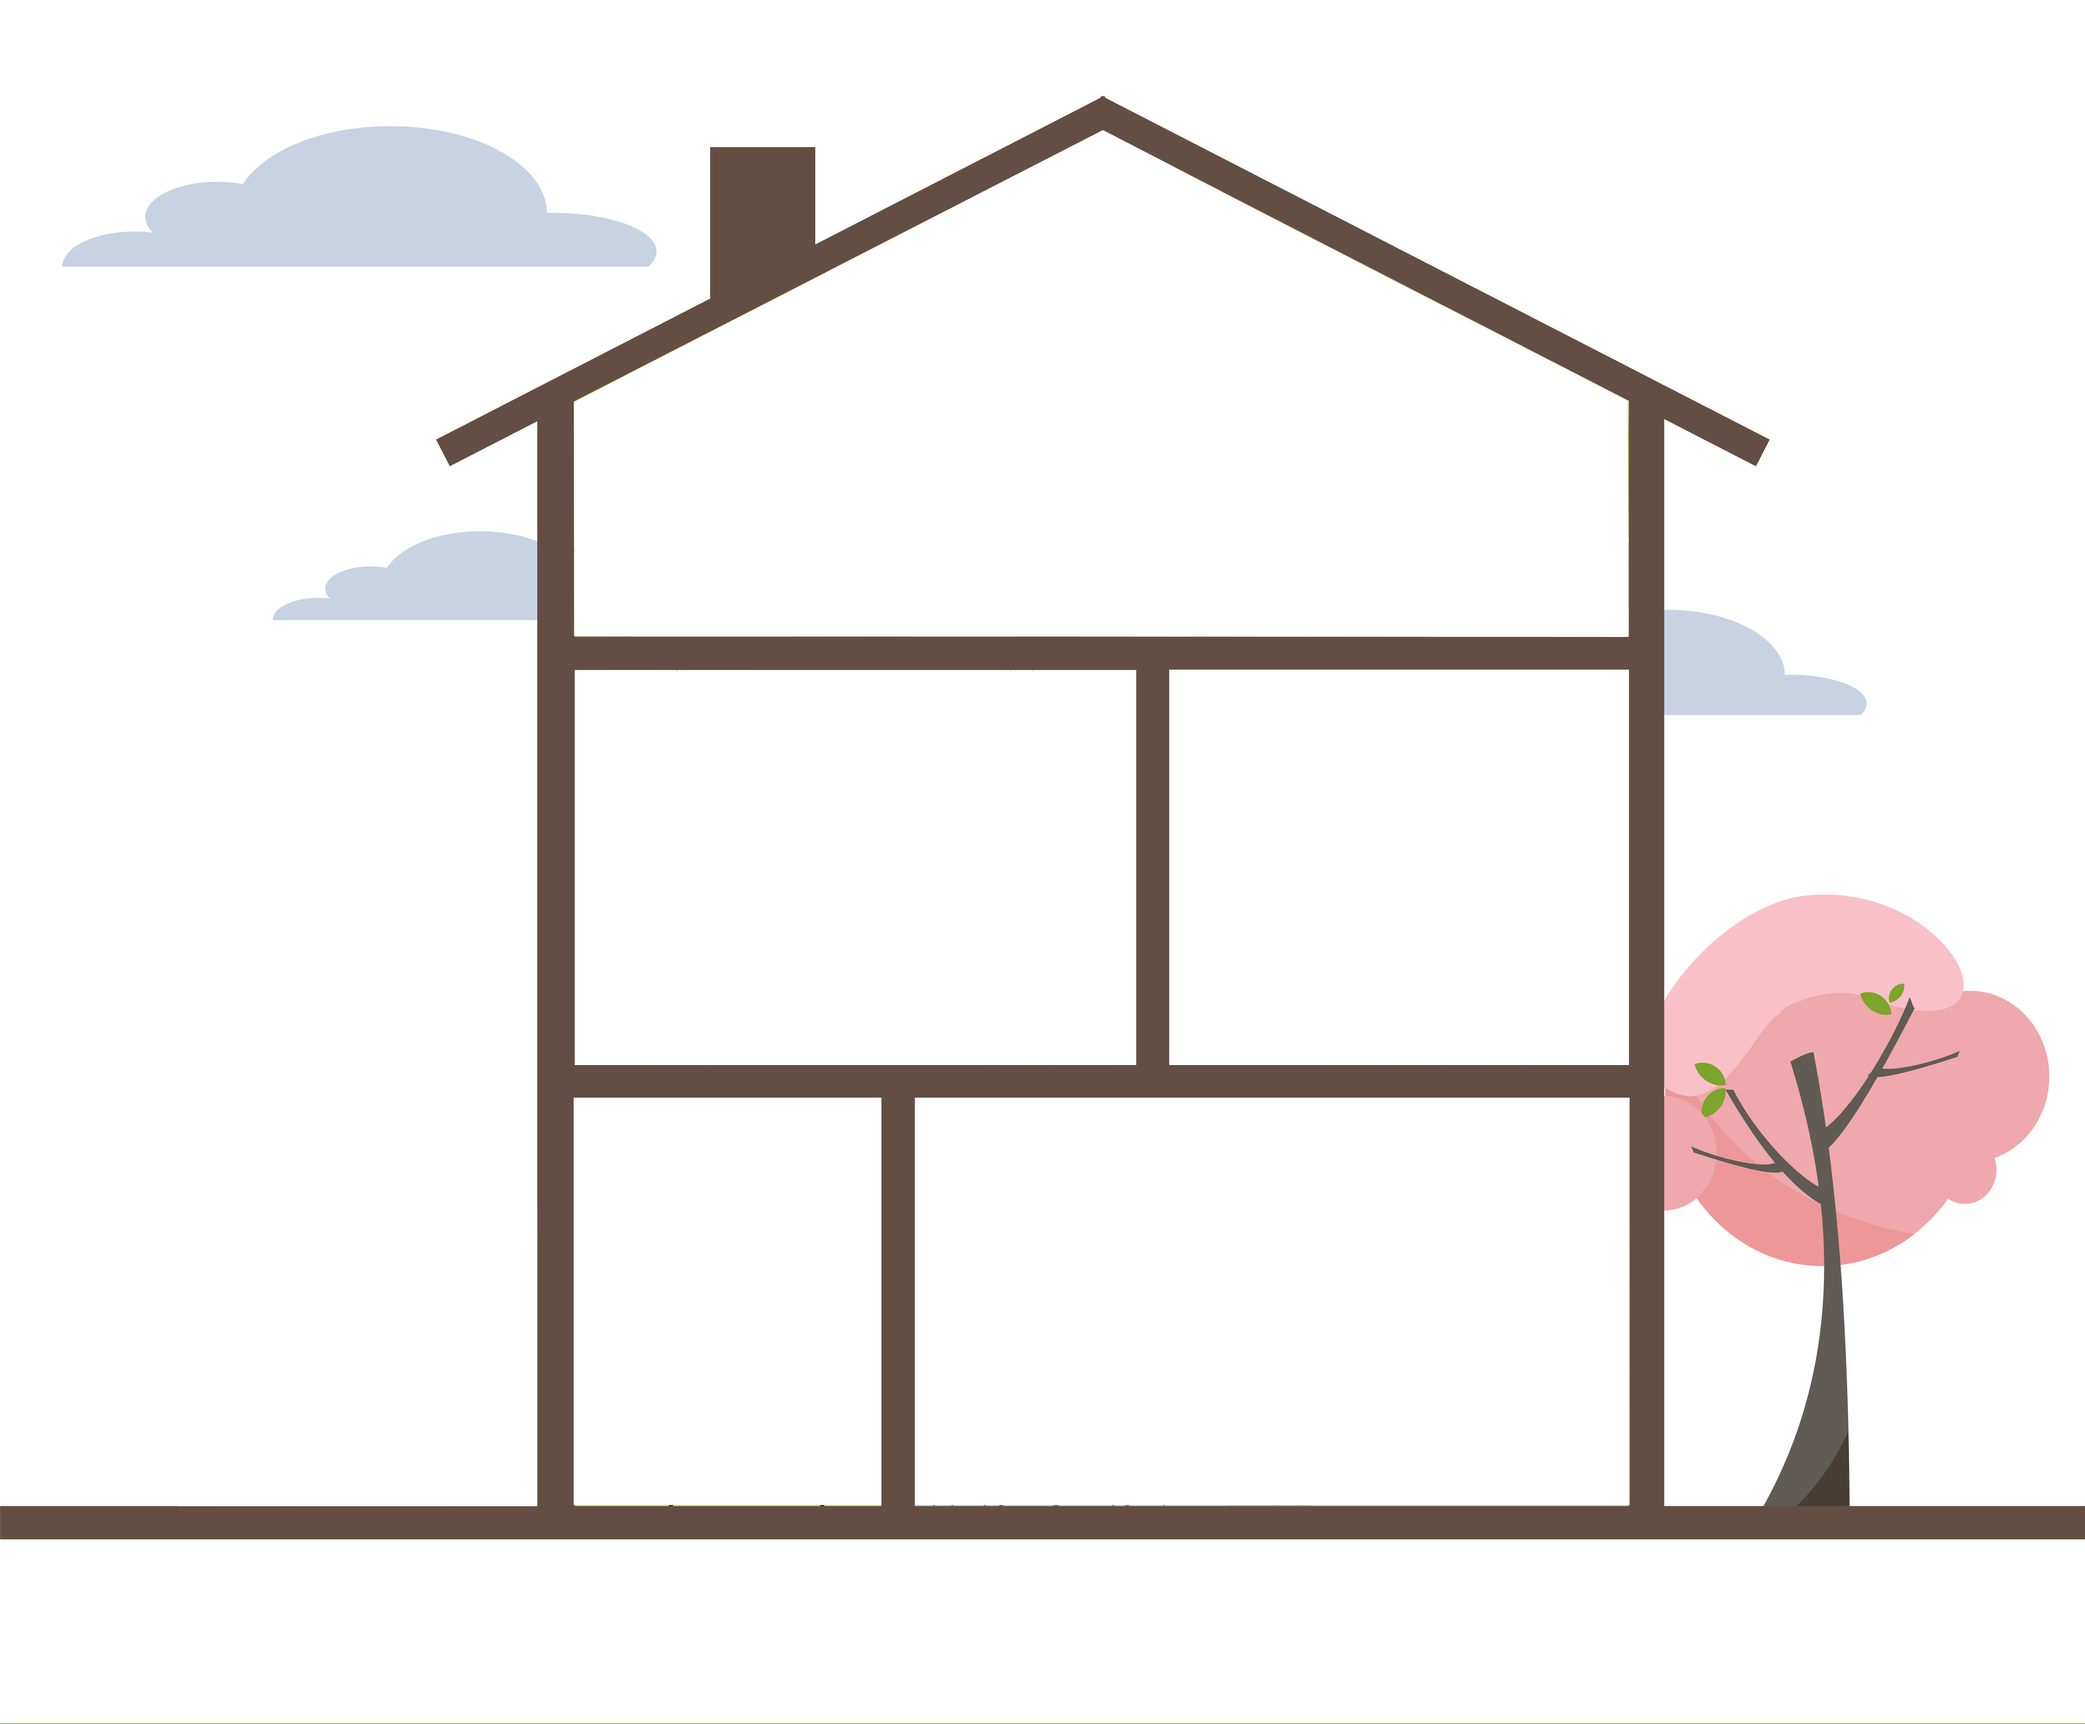
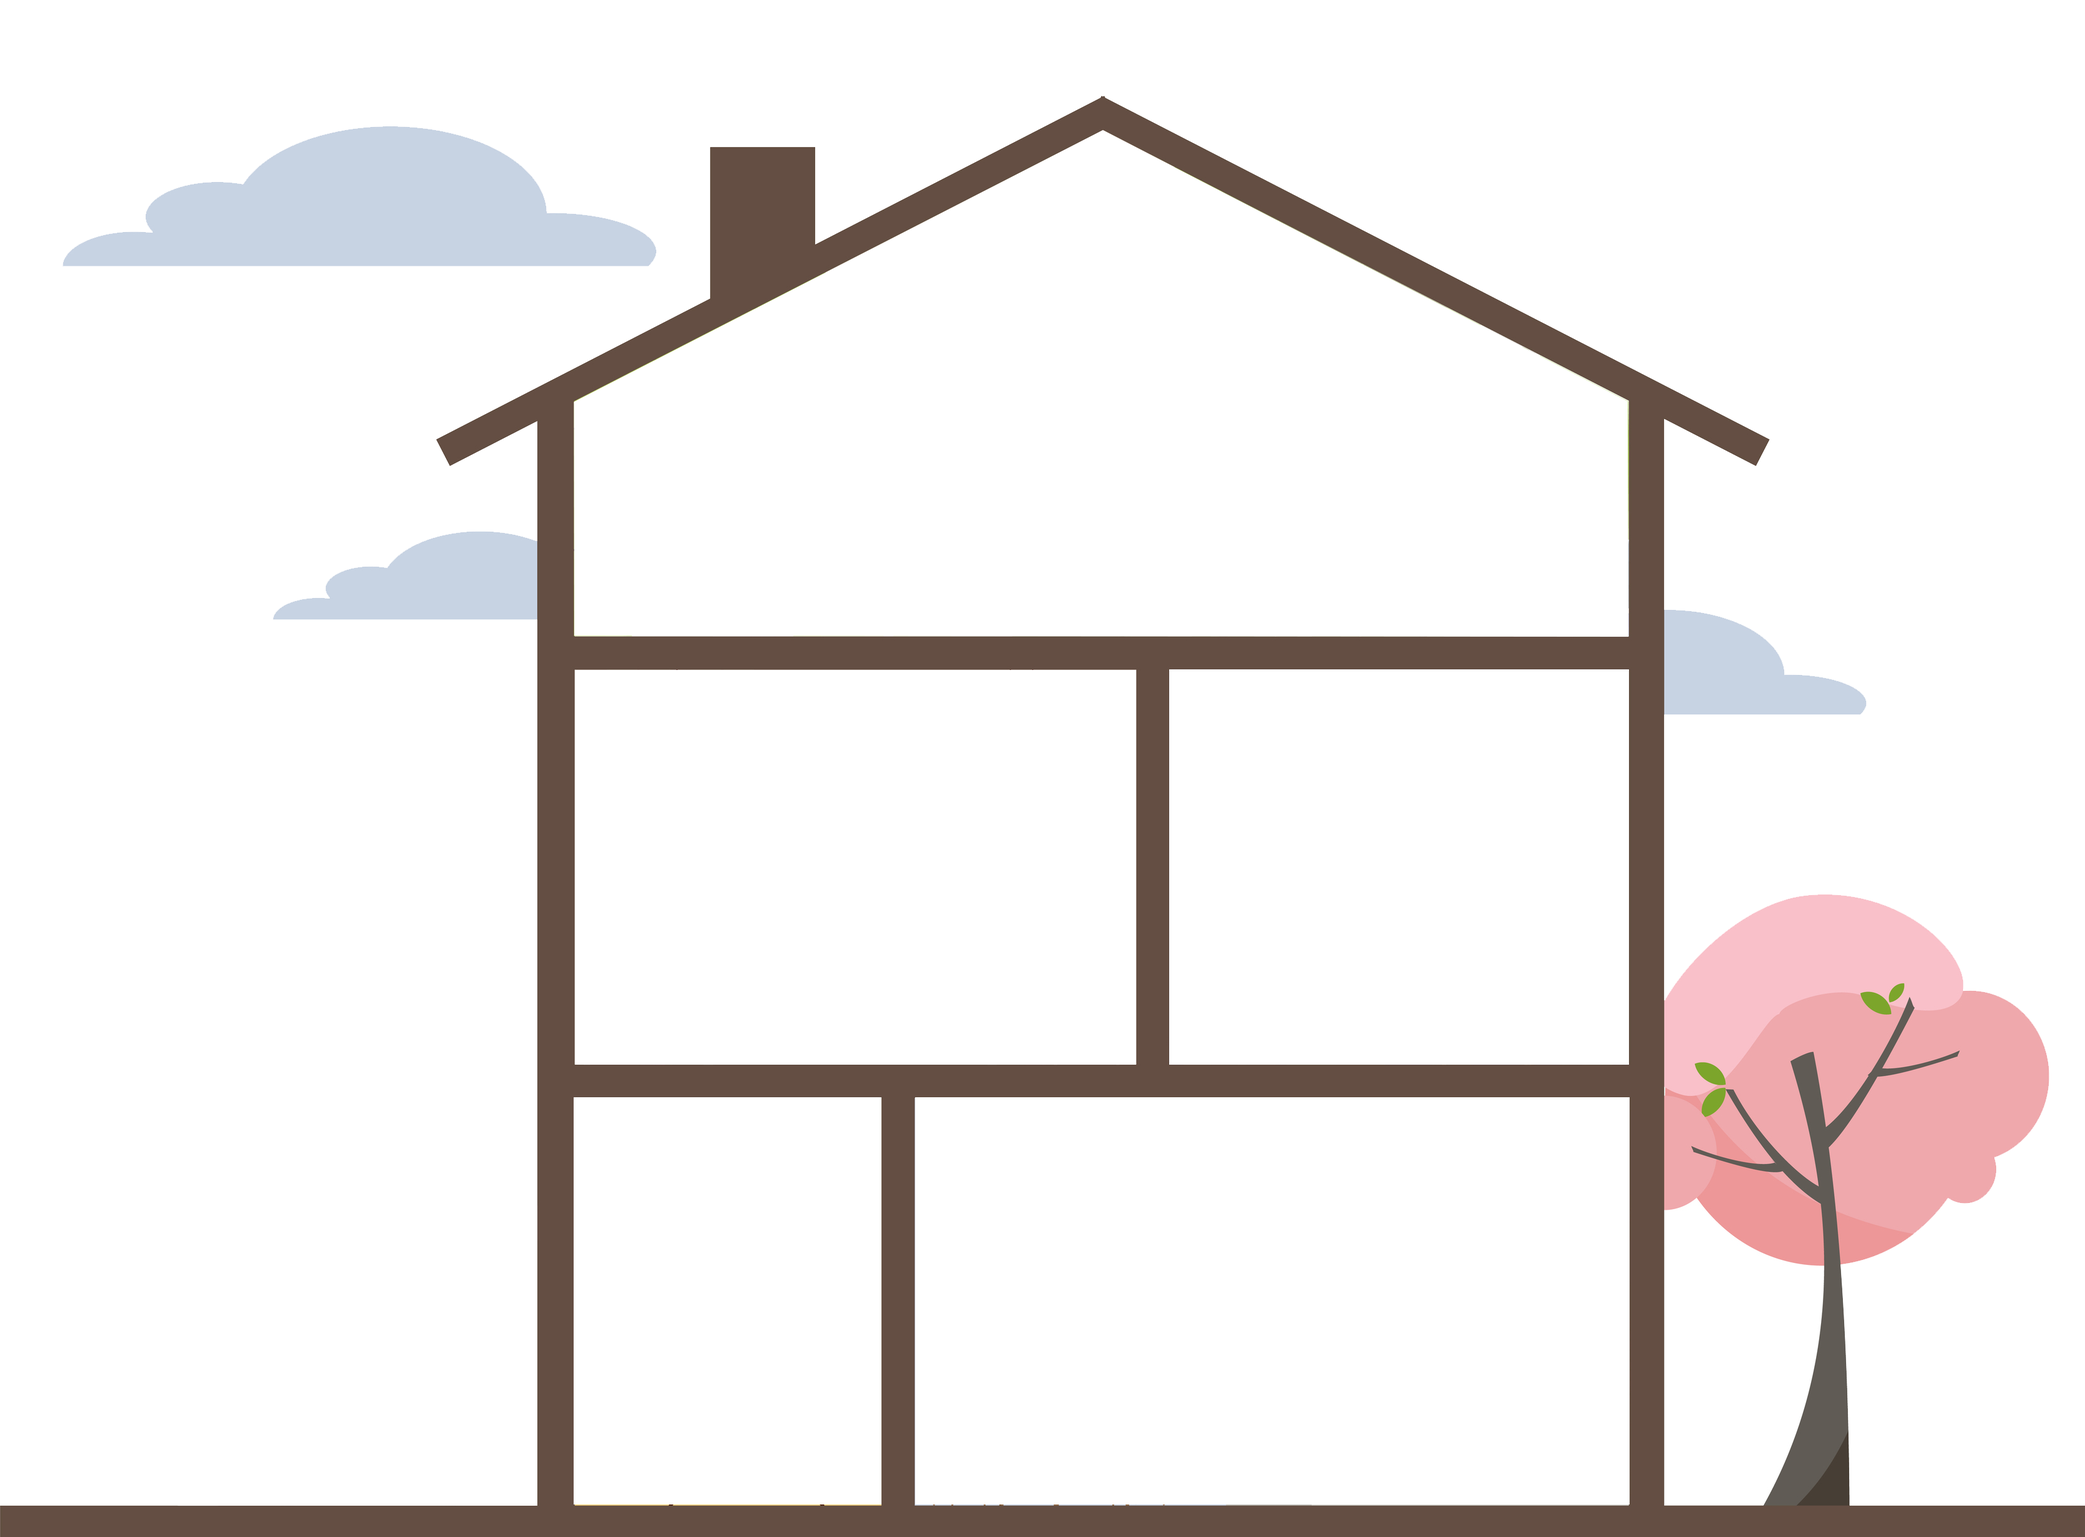
css footer

Changed region(s): [[0.0, 0.4949, 1.0, 1.0], [0.0312, 0.0619, 0.9049, 0.464], [0.3432, 0.0619, 0.4056, 0.0928]]

diff --git a/ecolomind/src/components/FooterComponent.vue b/ecolomind/src/components/FooterComponent.vue
@@ -2,8 +2,6 @@
 
     <footer>
 
-        <div>
-
             <router-link :to="{name: 'qui-sommes-nous'}">
                 Qui sommes-nous?
             </router-link>
@@ -12,12 +10,7 @@
                 Contactez-nous
             </router-link>
 
-        </div>
-
-        <img src="@/assets/logo.png" alt="logo ecolomind">        
-
-
-        <div>
+       <!-- <img src="@/assets/logo.png" alt="logo ecolomind">         -->
 
             <router-link :to="{name: 'mentions'}"> 
                 Mentions légales
@@ -26,8 +19,6 @@
             <router-link :to="{name: 'politique-de-confidentialite'}">
                 Politique de confidentialité
             </router-link>
-
-        </div>
     
 
     </footer>
@@ -40,3 +31,19 @@ export default {
     
 }
 </script>
+
+<style lang="scss" scoped>
+
+footer{
+    padding: 80px;
+    background: rgba(130, 150, 47, 0.5);
+    display: flex;
+    justify-content: space-between;
+}
+
+a{
+    color: white;
+}
+
+
+</style>

diff --git a/ecolomind/src/views/HomeView.vue b/ecolomind/src/views/HomeView.vue
@@ -2,7 +2,7 @@
 
 <template>
  <div id="image">
-    <img id="background" src="../assets/maison-vide2.png" alt="">
+    <img id="background" src="../assets/maison-vide3.png" alt="">
     <img id="sdb" src="../assets/sdb.png" alt="" >
     <img id="entree" src="../assets/entrée.png" alt="">
     <img id="bureau" src="../assets/bureau.png" alt="">
